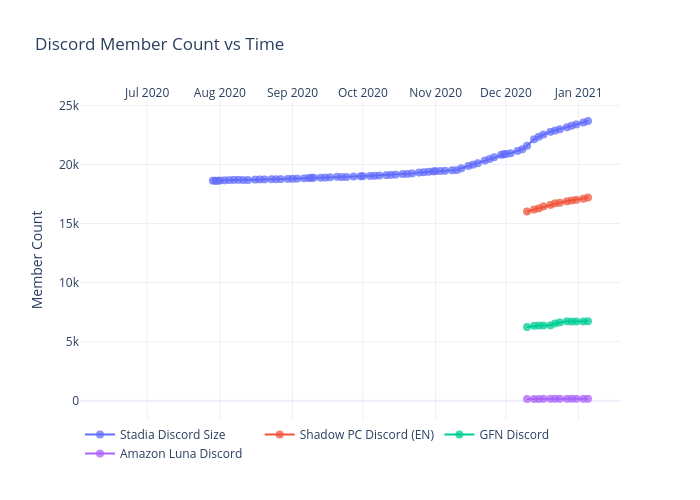
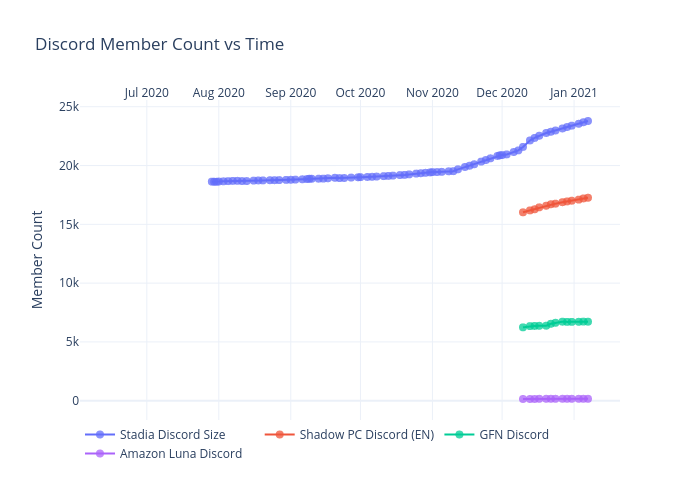
Add files via upload

diff --git a/discord/figure.js b/discord/figure.js
@@ -182,7 +182,8 @@ var figure = {
                 "23274",
                 "23390",
                 "23551",
-                "23679"
+                "23679",
+                "23786"
             ],
             "marker": {
                 "size": 8,
@@ -373,7 +374,8 @@ var figure = {
                 "16947",
                 "17008",
                 "17100",
-                "17201"
+                "17201",
+                "17261"
             ],
             "marker": {
                 "size": 8,
@@ -564,7 +566,8 @@ var figure = {
                 "6703",
                 "6704",
                 "6711",
-                "6726"
+                "6726",
+                "6720"
             ],
             "marker": {
                 "size": 8,
@@ -755,7 +758,8 @@ var figure = {
                 "164",
                 "163",
                 "163",
-                "163"
+                "163",
+                "162"
             ],
             "marker": {
                 "size": 8,
@@ -773,8 +777,8 @@ var figure = {
             "side": "top",
             "type": "date",
             "range": [
-                "2020-06-03 10:46:00.4743",
-                "2021-01-17 13:13:59.5257"
+                "2020-06-03 07:47:56.3411",
+                "2021-01-19 16:12:03.6589"
             ],
             "title": {
                 "text": ""
@@ -784,8 +788,8 @@ var figure = {
         "yaxis": {
             "type": "linear",
             "range": [
-                -1537.8325655053272,
-                25362.832565505327
+                -1545.4886265476537,
+                25477.488626547653
             ],
             "title": {
                 "text": "Member Count"
